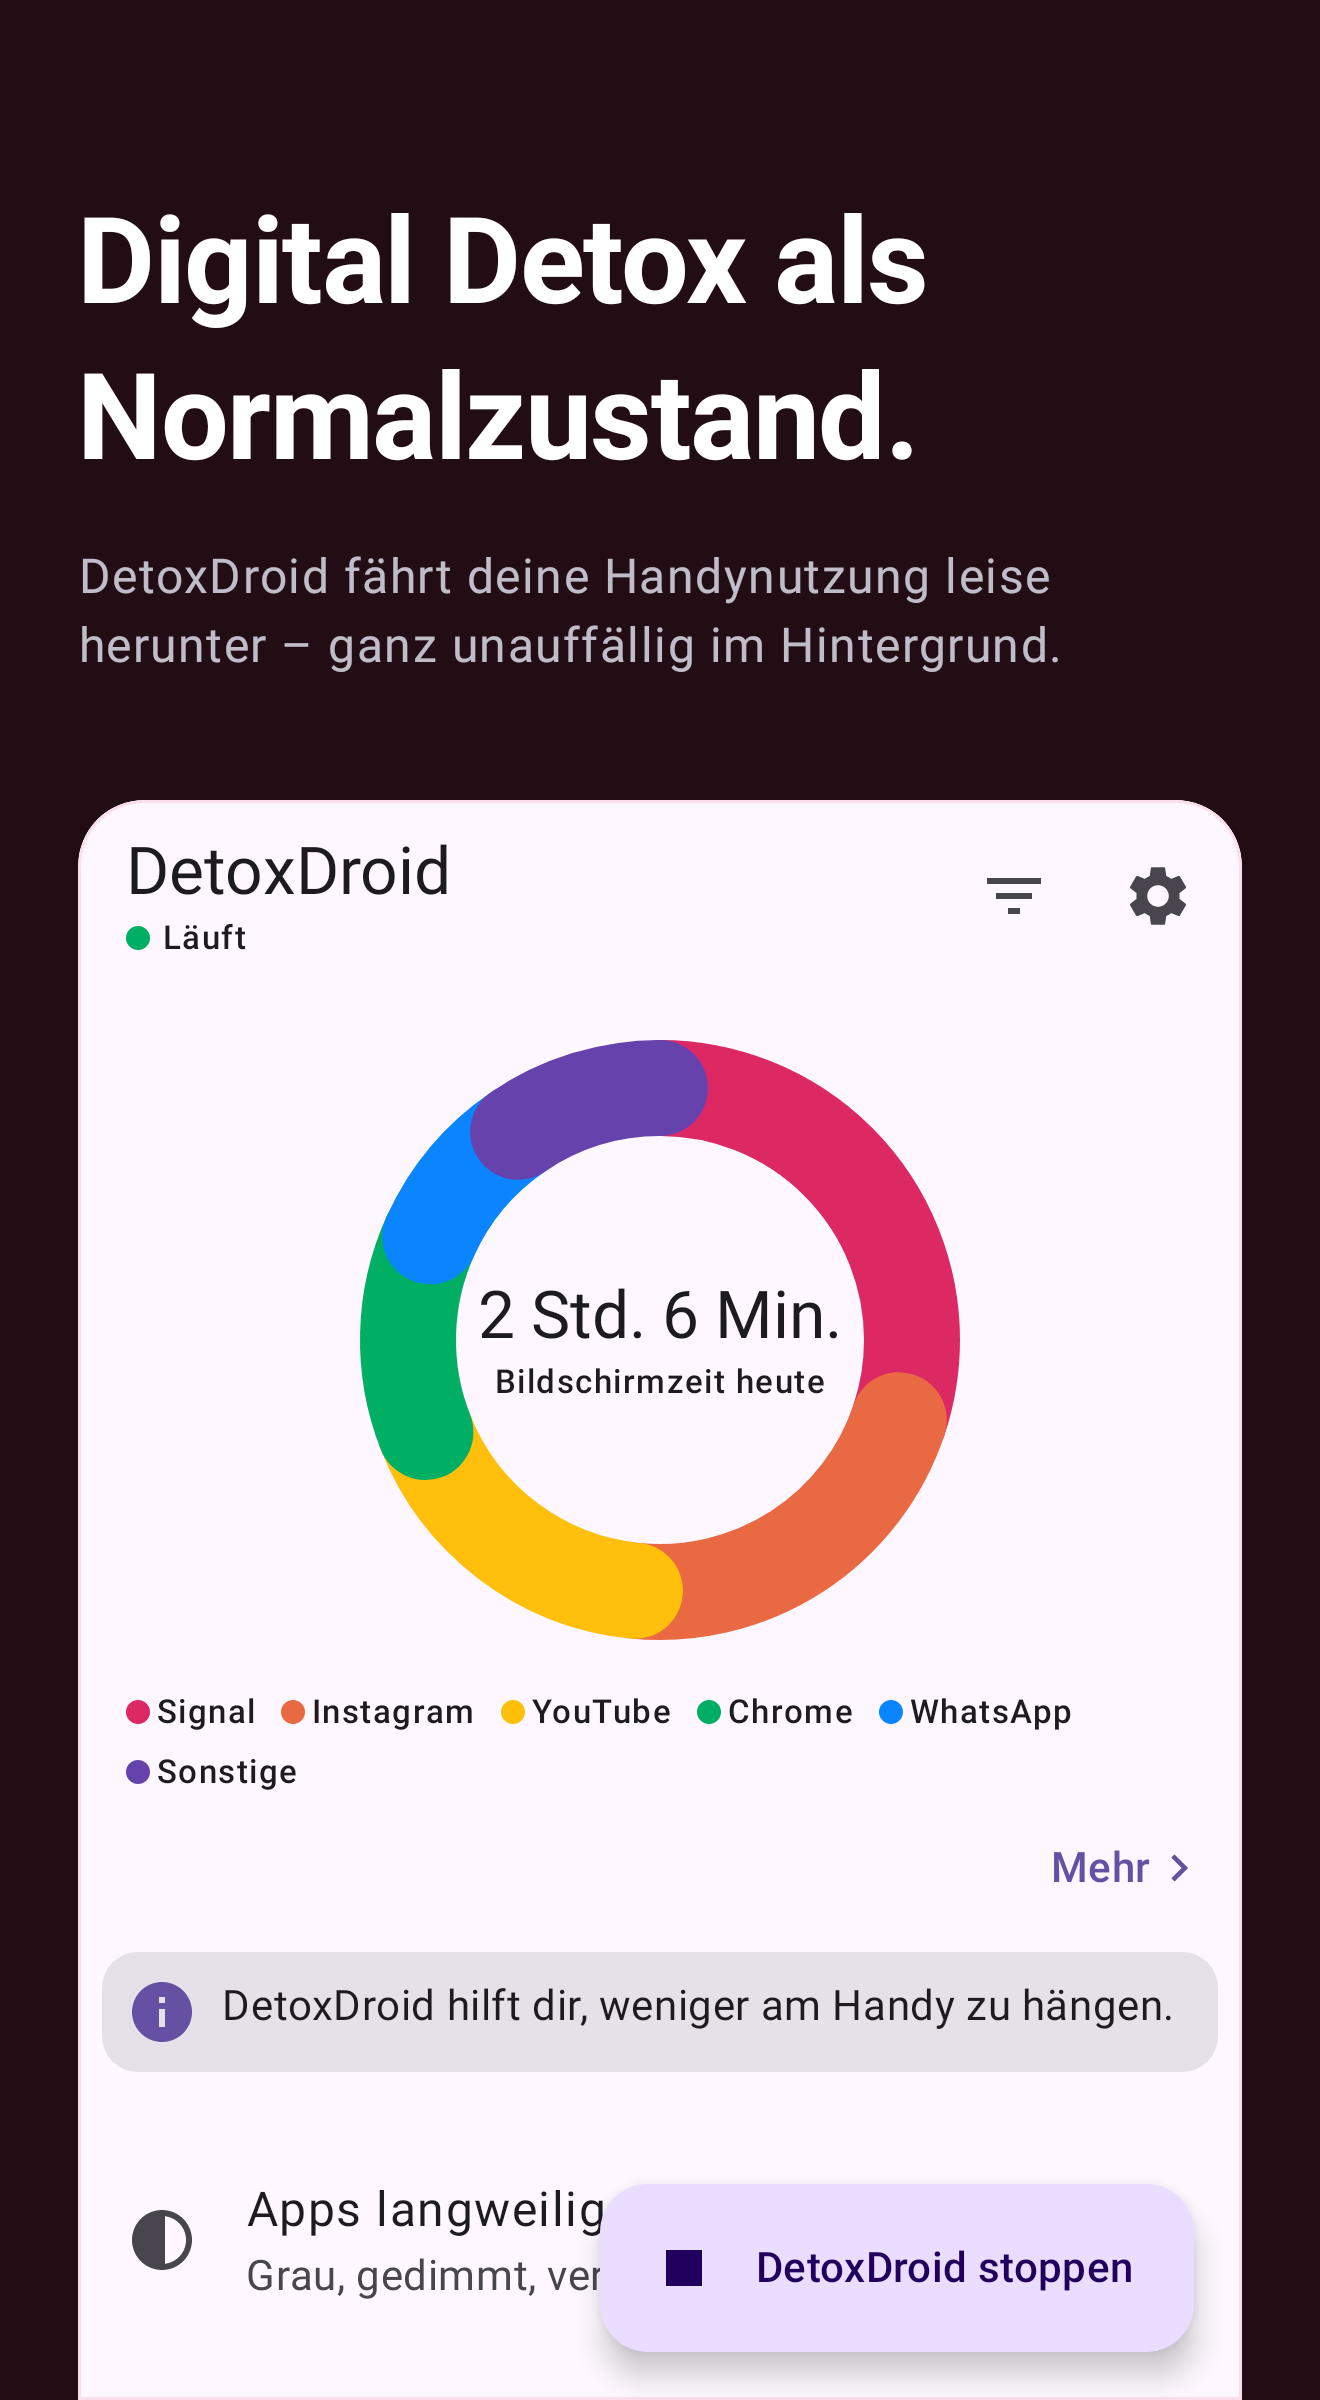
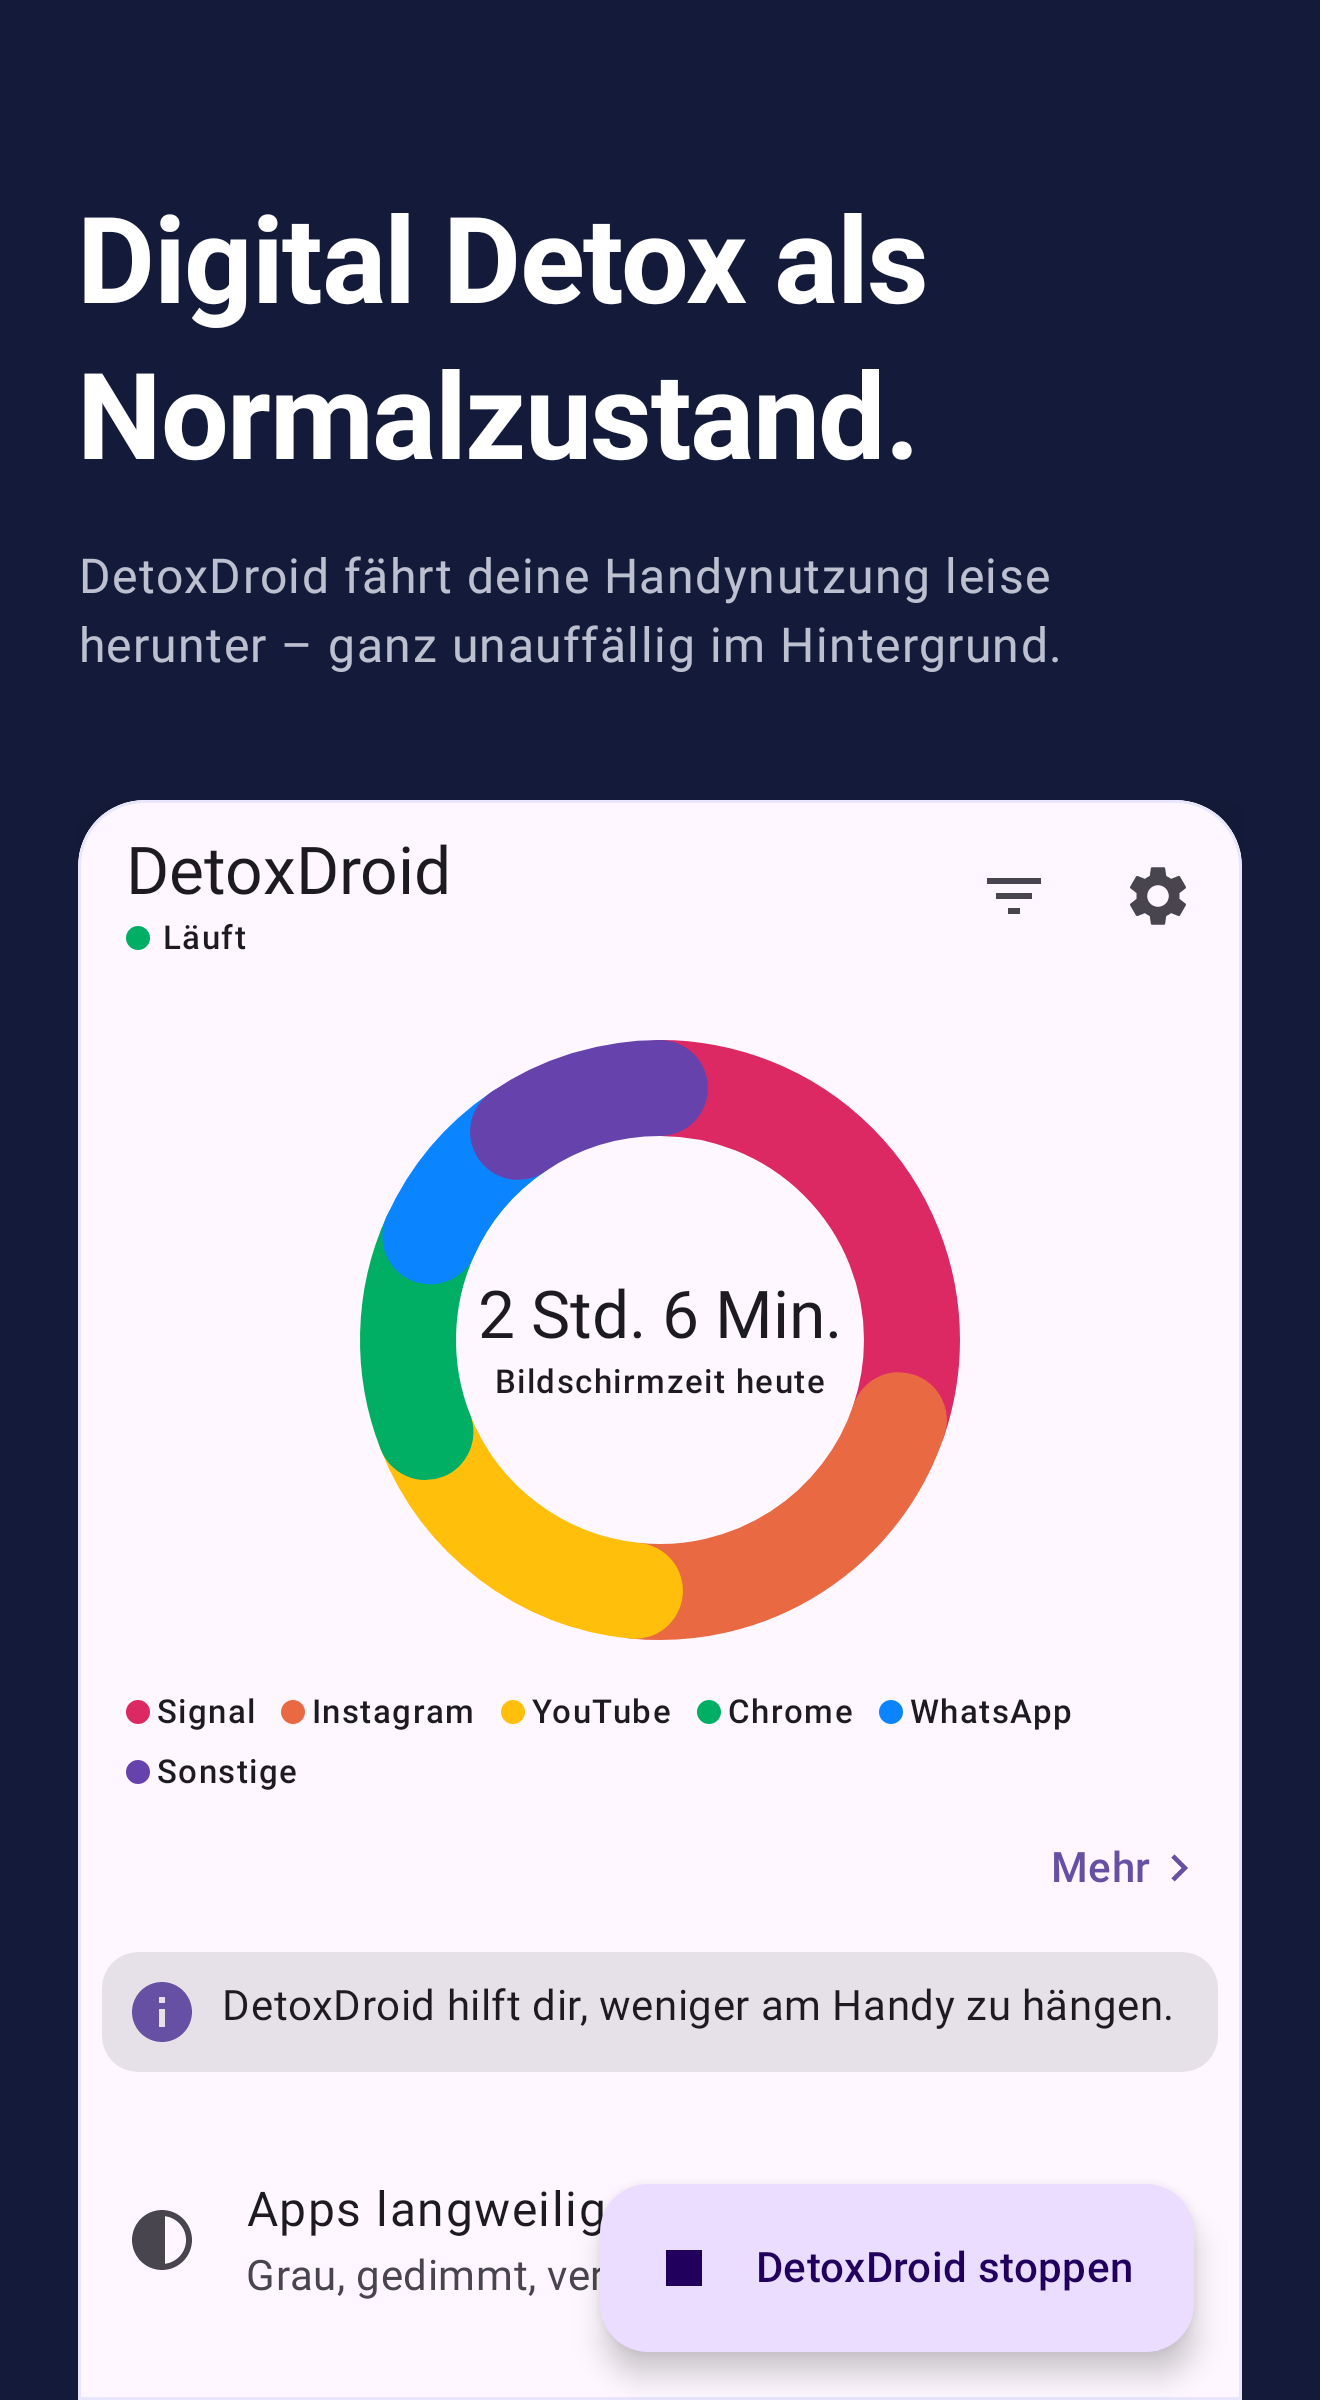
test(screenshot): move the warm card backgrounds into the cool palette

diff --git a/app/src/test/java/com/flx_apps/digitaldetox/screenshot/MarketingCard.kt b/app/src/test/java/com/flx_apps/digitaldetox/screenshot/MarketingCard.kt
@@ -49,25 +49,28 @@ import androidx.compose.ui.unit.sp
 // frame and screen at the ~200 px thumbnail Play shows first, which is the size that decides the
 // install.
 //
-// The six colours are the six stripes of the launcher icon, in the order the icon draws them, so
-// the strip reads the icon back. Each is that stripe pushed down to a background value; the accent
-// beside it is the same hue lifted until it clears 7:1 there, because the caption title is drawn
-// in it.
+// The six colours are one palette: night blues from petrol through indigo to violet. Warm grounds
+// were tried first and a dark red or olive at this value is just brown, which is what the panel
+// ends up sitting in. The accent beside each is that ground's own hue lifted until it clears 7:1,
+// because the caption title is drawn in it.
 
 /** Flat background and accent for one screenshot slot. */
 class MarketingStyle(val accent: Color, val background: Color)
 
 /**
- * The six slots, in strip order — and in launcher-stripe order: crimson, orange, amber, green,
- * blue, violet.
+ * The six slots, in strip order: indigo, petrol, steel blue, green, navy, violet.
  *
- * The hues also land where they mean something. Amber is the slot about the apps kept in colour,
- * blue the one about statistics, violet the twilight home screen the minimal launcher draws.
+ * The hues land where they mean something. Petrol is the slot where the feed loses its colour,
+ * green the break screen, navy the statistics, violet the twilight the minimal launcher draws.
+ *
+ * [Exceptions] is the exception. Its card is the one about the apps that keep their colour, so its
+ * title is amber over the blue instead of the blue lifted, and it is the only warm thing on the
+ * strip.
  */
 object Slot {
-    val Hero = MarketingStyle(accent = Color(0xFFEB84A6), background = Color(0xFF230D15))
-    val Grayscale = MarketingStyle(accent = Color(0xFFEE9377), background = Color(0xFF2B1610))
-    val Exceptions = MarketingStyle(accent = Color(0xFFF5CD5C), background = Color(0xFF2B230A))
+    val Hero = MarketingStyle(accent = Color(0xFF97A9F2), background = Color(0xFF141B3A))
+    val Grayscale = MarketingStyle(accent = Color(0xFF6FD2E0), background = Color(0xFF0A2B36))
+    val Exceptions = MarketingStyle(accent = Color(0xFFF5CD5C), background = Color(0xFF16233C))
     val Doomscroll = MarketingStyle(accent = Color(0xFF7BD5AF), background = Color(0xFF092519))
     val UsageStats = MarketingStyle(accent = Color(0xFF7BB8F4), background = Color(0xFF09192A))
     val Launcher = MarketingStyle(accent = Color(0xFFB399E6), background = Color(0xFF1C1726))
